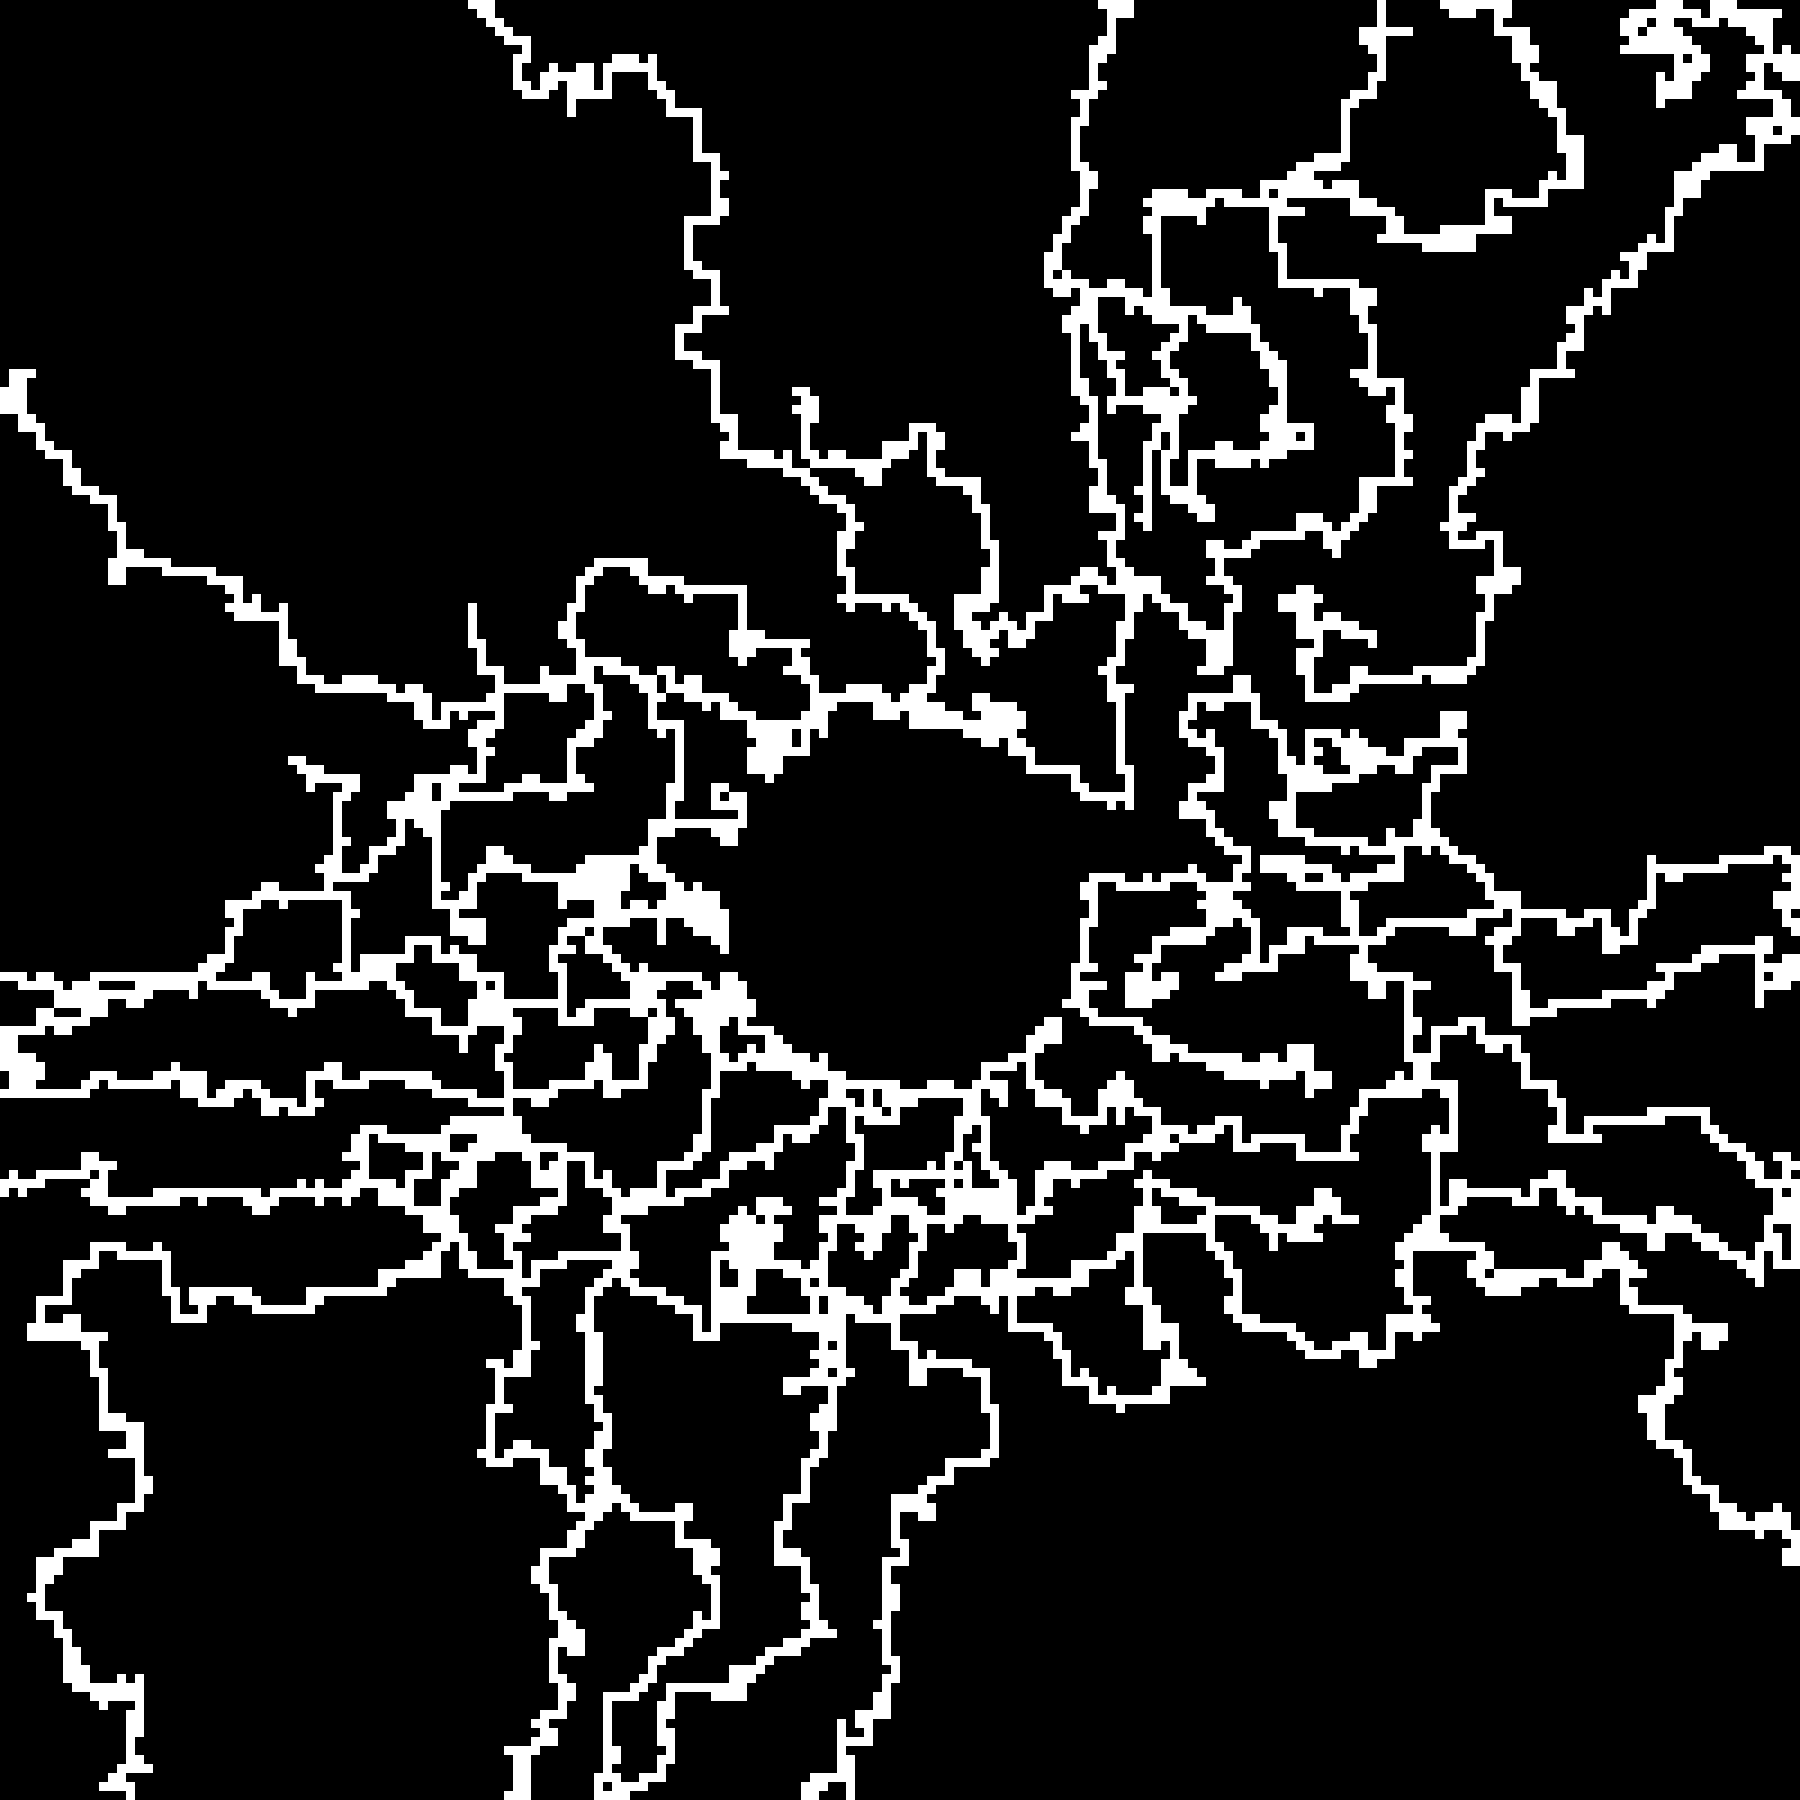
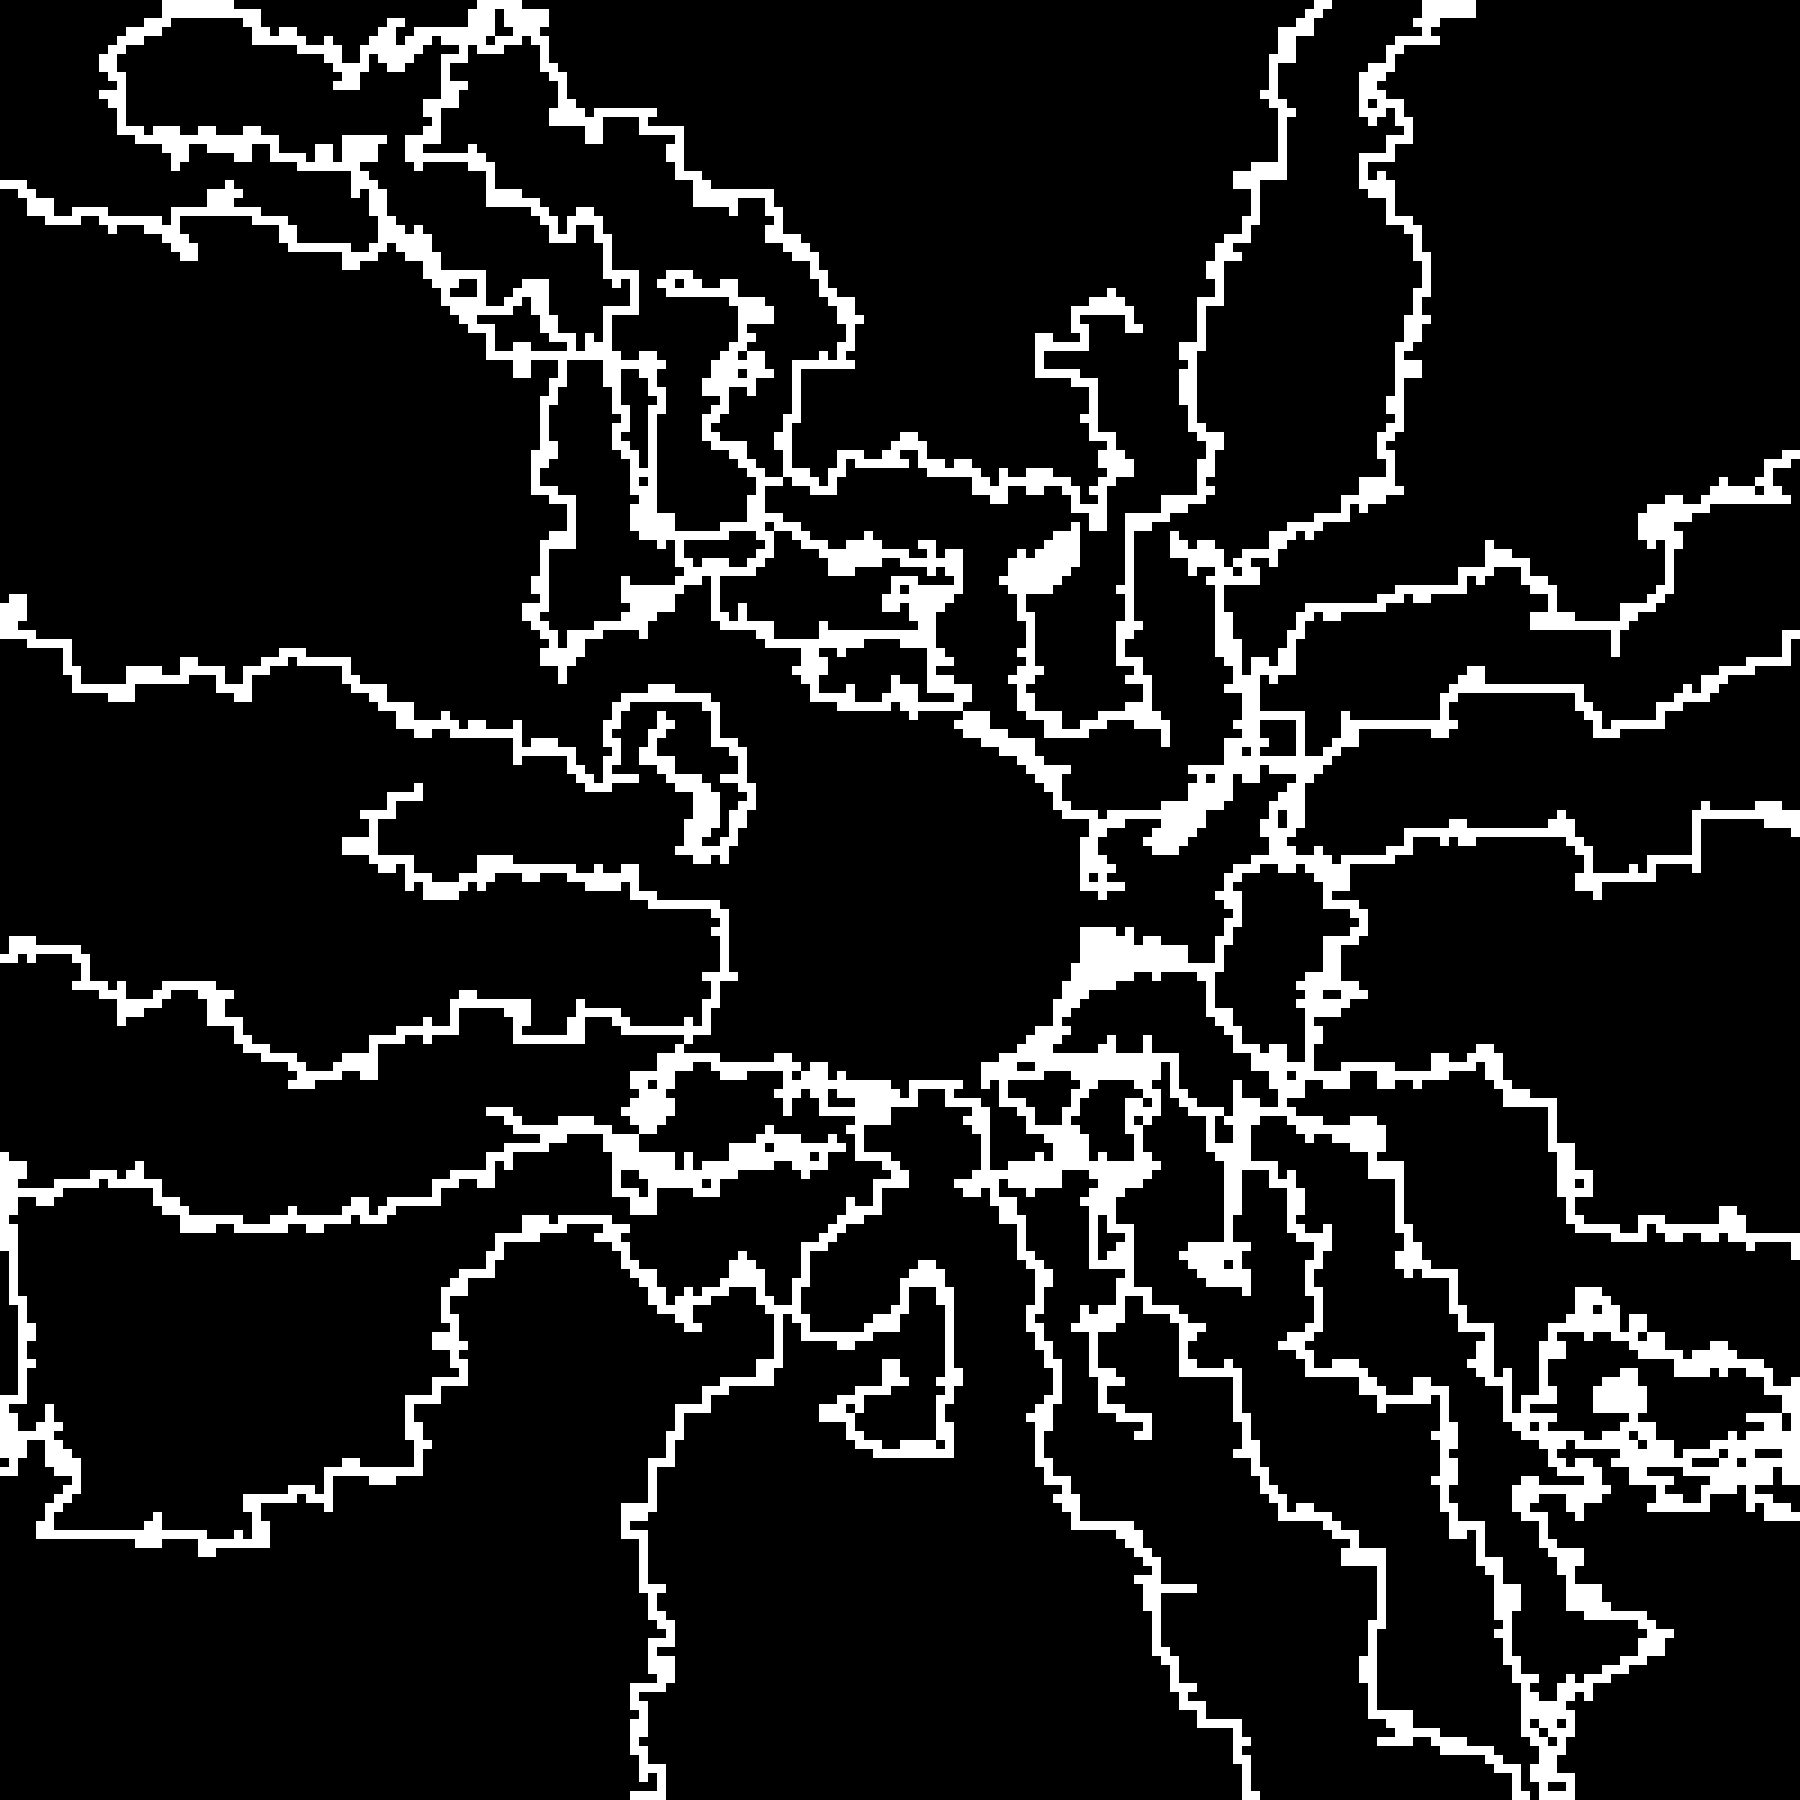
minor change in network analysis

diff --git a/network_analysis.py b/network_analysis.py
@@ -80,18 +80,18 @@ def network_analysis(image, tumor_grid, show_skeleton=True, show_graph=True, pri
 
     return average_degree, average_betweenness, average_page_rank, average_clustering_coefficient, degree_distribution
 
-# vessel_grid, tumor_grid, min_entropy = simulate_CA(
-#                     size=200, 
-#                     num_seeds=20, 
-#                     steps=500, 
-#                     bias_factor=0.9, 
-#                     decay_factor=0.9, 
-#                     neighborhood_radius=3,
-#                     tumor_prob=0.5, 
-#                     wrap_around=False,
-#                     plot=False, 
-#                     breakpoint=350)
-# network_analysis(io.imread('images/final_grid.png'), tumor_grid)
+vessel_grid, tumor_grid, min_entropy, _ = simulate_CA(
+                    size=200, 
+                    seeds_per_edge=5, 
+                    steps=10, 
+                    bias_factor=0.93, 
+                    decay_factor=0.99, 
+                    neighborhood_radius=10,
+                    tumor_prob=0.3,
+                    wrap_around=False,
+                    plot=False, 
+                    breakpoint=350)
+network_analysis(io.imread('images/final_grid.png'), tumor_grid)
 
 def run_experiments():
     experiment_type = input('Enter the experiment type (bias_factor, prolif_prob, midpoint_sigmoid, steepness, constant): ')
@@ -299,4 +299,4 @@ def run_experiments():
         df = pd.DataFrame(results)
         df.to_csv(f'data/{experiment_type}_results.csv', index=False)
 
-run_experiments()
+# run_experiments()
